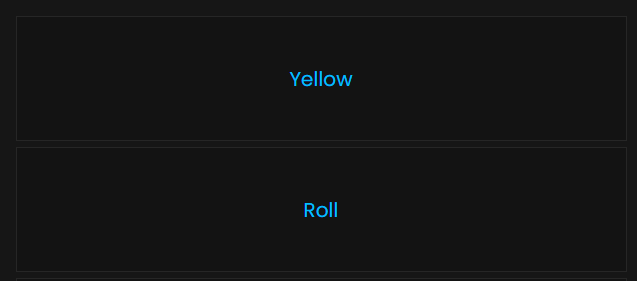
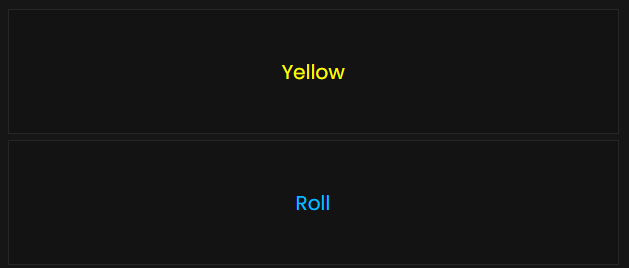
end

Changed region(s): [[0.4531, 0.2388, 0.5739, 0.3284], [0.4531, 0.7164, 0.5437, 0.806]]

diff --git a/09-chinczyk-19.03.2022-20220328T153947Z-001/09-chinczyk-19.03.2022/script-arrays.js b/09-chinczyk-19.03.2022-20220328T153947Z-001/09-chinczyk-19.03.2022/script-arrays.js
@@ -49,15 +49,15 @@ field[14][72] = "b72";
 field[15][73] = "b73";
 
 var wins = [
-	{ player: "yellow", score: 0 },
-	{ player: "green", score: 0 },
-	{ player: "red", score: 0 },
-	{ player: "blue", score: 0 },
+	{ player: "Yellow", score: 0 },
+	{ player: "Green", score: 0 },
+	{ player: "Red", score: 0 },
+	{ player: "Blue", score: 0 },
 ]
 
 var culprit = 1;
-var curplr = "Yellow"
-
+var curplr = "Yellow";
+var curplrs = "yellowcolor";
 //other variables
 
 var moved = 1;
@@ -78,14 +78,14 @@ var idram;
 var rampawn;
 var rampawns = [];
 var convertedcurplr;
-var place = 1;
 var object;
 var movedtiles
 
 //test function
 
 function test() {
-
+	wins[0].score = 1;
+		updategame();
 }
 
 //main functions
@@ -106,6 +106,7 @@ function turns() {
 
 function rolling() {
 	document.getElementById("playerwhich").innerHTML = curplr;
+	document.getElementById("playerwhich").className = curplrs;
 	if (moved == 1) {
 		roll();
 		checkroll = 1;
@@ -214,23 +215,19 @@ function checkplayer() {
 
 function areyawinningson() {
 	if (yd == 39) {
-		wins[0].score = place;
-		place++;
+		wins[0].score = 1;
 		updategame();
 	}
 	else if (gd == 43) {
-		wins[1].score = place;
-		place++;
+		wins[1].score = 1;
 		updategame();
 	}
 	else if (rd == 47) {
-		wins[2].score = place;
-		place++;
+		wins[2].score = 1;
 		updategame();
 	}
 	else if (bd == 51) {
-		wins[3].score = place;
-		place++;
+		wins[3].score = 1;
 		updategame();
 	}
 }
@@ -306,46 +303,39 @@ function chec() {
 
 function loading() {
 	document.getElementById("playerwhich").innerHTML = curplr;
+	document.getElementById("playerwhich").className = curplrs;
 	n = 0;
 	field.forEach(finding);
 } function finding() {
 	var tile = document.getElementById("a" + field[n].indexOf(pawns[n]));
-	if (pawns[n].charAt(0) == "y") tile.style.backgroundImage = "url('img/pawns/yellowpawn.png')";
-	else if (pawns[n].charAt(0) == "g") tile.style.backgroundImage = "url('img/pawns/greenpawn.png')";
-	else if (pawns[n].charAt(0) == "r") tile.style.backgroundImage = "url('img/pawns/redpawn.png')";
-	else if (pawns[n].charAt(0) == "b") tile.style.backgroundImage = "url('img/pawns/bluepawn.png')";
+	if (pawns[n].charAt(0) == "y") tile.style.backgroundImage = "url('img/pawns/yellowpawn.svg')";
+	else if (pawns[n].charAt(0) == "g") tile.style.backgroundImage = "url('img/pawns/greenpawn.svg')";
+	else if (pawns[n].charAt(0) == "r") tile.style.backgroundImage = "url('img/pawns/redpawn.svg')";
+	else if (pawns[n].charAt(0) == "b") tile.style.backgroundImage = "url('img/pawns/bluepawn.svg')";
 	n++;
 }
 
 function updategame() {
-	wins.sort(compare);
 	for (i = 0; i < 4; i++) {
-		if (wins[i].score == 0) document.getElementById("p" + i).innerHTML = "-";
-		else document.getElementById("p" + i).innerHTML = wins[i].player;
+		if (wins[i].score == 1) document.getElementById("winner").innerHTML = wins[i].player + " Wins!";
 	}
-} function compare(a, b) {
-	if (a.score < b.score) {
-		return -1;
-	}
-	if (a.score > b.score) {
-		return 1;
-	}
-	return 0;
 }
 
 function playerprogress() {
 	document.getElementById("playerwhich").innerHTML = curplr;
+	document.getElementById("playerwhich").className = curplrs;
 	culprit++;
 	isnt = 0;
 	if (culprit == 5) culprit = 1;
 	switch (culprit) {
-		case 1: curplr = "Yellow"; break;
-		case 2: curplr = "Green"; break;
-		case 3: curplr = "Red"; break;
-		case 4: curplr = "Blue"; break;
+		case 1: curplr = "Yellow";curplrs = "yellowcolor"; break;
+		case 2: curplr = "Green";curplrs = "greencolor"; break;
+		case 3: curplr = "Red";curplrs = "redcolor"; break;
+		case 4: curplr = "Blue";curplrs = "bluecolor"; break;
 	}
 	console.log("curplr " + curplr + " " + culprit)
 	document.getElementById("playerwhich").innerHTML = curplr;
+	document.getElementById("playerwhich").className = curplrs;
 	moved = 1;
 }
 

diff --git a/09-chinczyk-19.03.2022-20220328T153947Z-001/09-chinczyk-19.03.2022/instruction.html b/09-chinczyk-19.03.2022-20220328T153947Z-001/09-chinczyk-19.03.2022/instruction.html
@@ -40,8 +40,9 @@
     <img src="img/pics/right.png" width="500px" alt="right">
     <p>Here is displayed what is currenty happening. The top displayes the current player and the bottom tells what the player should now do: </p>
     <img src="img/pics/right1.png" width="500px" alt="right1">
-    <p>This is the leaderboard, it will display the order that players finished the game</p>
+    <p>When the game ends, here will be displayed which player won.</p>
     <img src="img/pics/right2.png" width="500px" alt="right2">
+    <img src="img/pics/right4.png" width="500px" alt="right2">
     <p>This is the dice. To roll you have to click on it and it will display the amount of dots that were rolled:</p>
     <img src="img/pics/right3.png" width="500px" alt="right3">
     <br> <br>
@@ -55,7 +56,7 @@
     <p>When a pawn steps on another pawn that isn't the same color the one that was there eariler will be moved to its home.</p><br>
     <p>The goal of the game is to move all your pawns to the base.</p><br>
     <p>To move a pawn to the base it has to go around the whole board.</p><br>
-    <p>The game ends with all players pawns being in their bases.</p><br>
+    <p>The game ends when one of the players.</p><br>
   </div>
   <script src="dark-mode.js"></script>
 </body>

diff --git a/09-chinczyk-19.03.2022-20220328T153947Z-001/09-chinczyk-19.03.2022/index-arrays.html b/09-chinczyk-19.03.2022-20220328T153947Z-001/09-chinczyk-19.03.2022/index-arrays.html
@@ -182,19 +182,14 @@
   </table>
   <table class="right" cellspacing="5">
       <tr>
-        <td id="playerwhich"></td>
+        <td id="playerwhich" class="yellowcolor"></td>
       </tr>
       <tr>
         <td id="tip">Roll<!--<input type="button" id="btnstartgame" onclick="test()" value="Testy">--></td>
       </tr>
       <tr>
-        <td>
-          <ol>
-            <li id="p0">-</li>
-            <li id="p1">-</li>
-            <li id="p2">-</li>
-            <li id="p3">-</li>
-          </ol>
+        <td id="winner">
+         - <!-- <input type="button" onclick="test()" value="bich"> -->
         </td>
       </tr>
       <tr>

diff --git a/09-chinczyk-19.03.2022-20220328T153947Z-001/09-chinczyk-19.03.2022/home.html b/09-chinczyk-19.03.2022-20220328T153947Z-001/09-chinczyk-19.03.2022/home.html
@@ -14,7 +14,8 @@
 <body>
   <div class="text-box">
     <!-- <h1>🎌Chińczyk zasrany obsrany który zają nam tyle czasu! 🎌</h1> -->
-    <h1>🎌Ludo fucking game that cost us hours, even fucking days. What a motherfucker cunt!🎌</h1>
+    <!-- <h1>🎌Ludo fucking game that cost us hours, even fucking days. What a motherfucker cunt!🎌</h1> -->
+    <h1>🎌Ludo Game🎌</h1>
     <p>Our first school project in game development!</p>
     <a href="index-arrays.html" class="hero-btn">Start!</a>
   </div>

diff --git a/09-chinczyk-19.03.2022-20220328T153947Z-001/09-chinczyk-19.03.2022/main.css b/09-chinczyk-19.03.2022-20220328T153947Z-001/09-chinczyk-19.03.2022/main.css
@@ -310,3 +310,12 @@ input[type="button"] {
   max-height: inherit;
   opacity: 1;
 }
+.yellowcolor{
+  color:yellow;
+}.greencolor{
+  color:green;
+}.redcolor{
+  color:red;
+}.bluecolor{
+  color:blue;
+}
